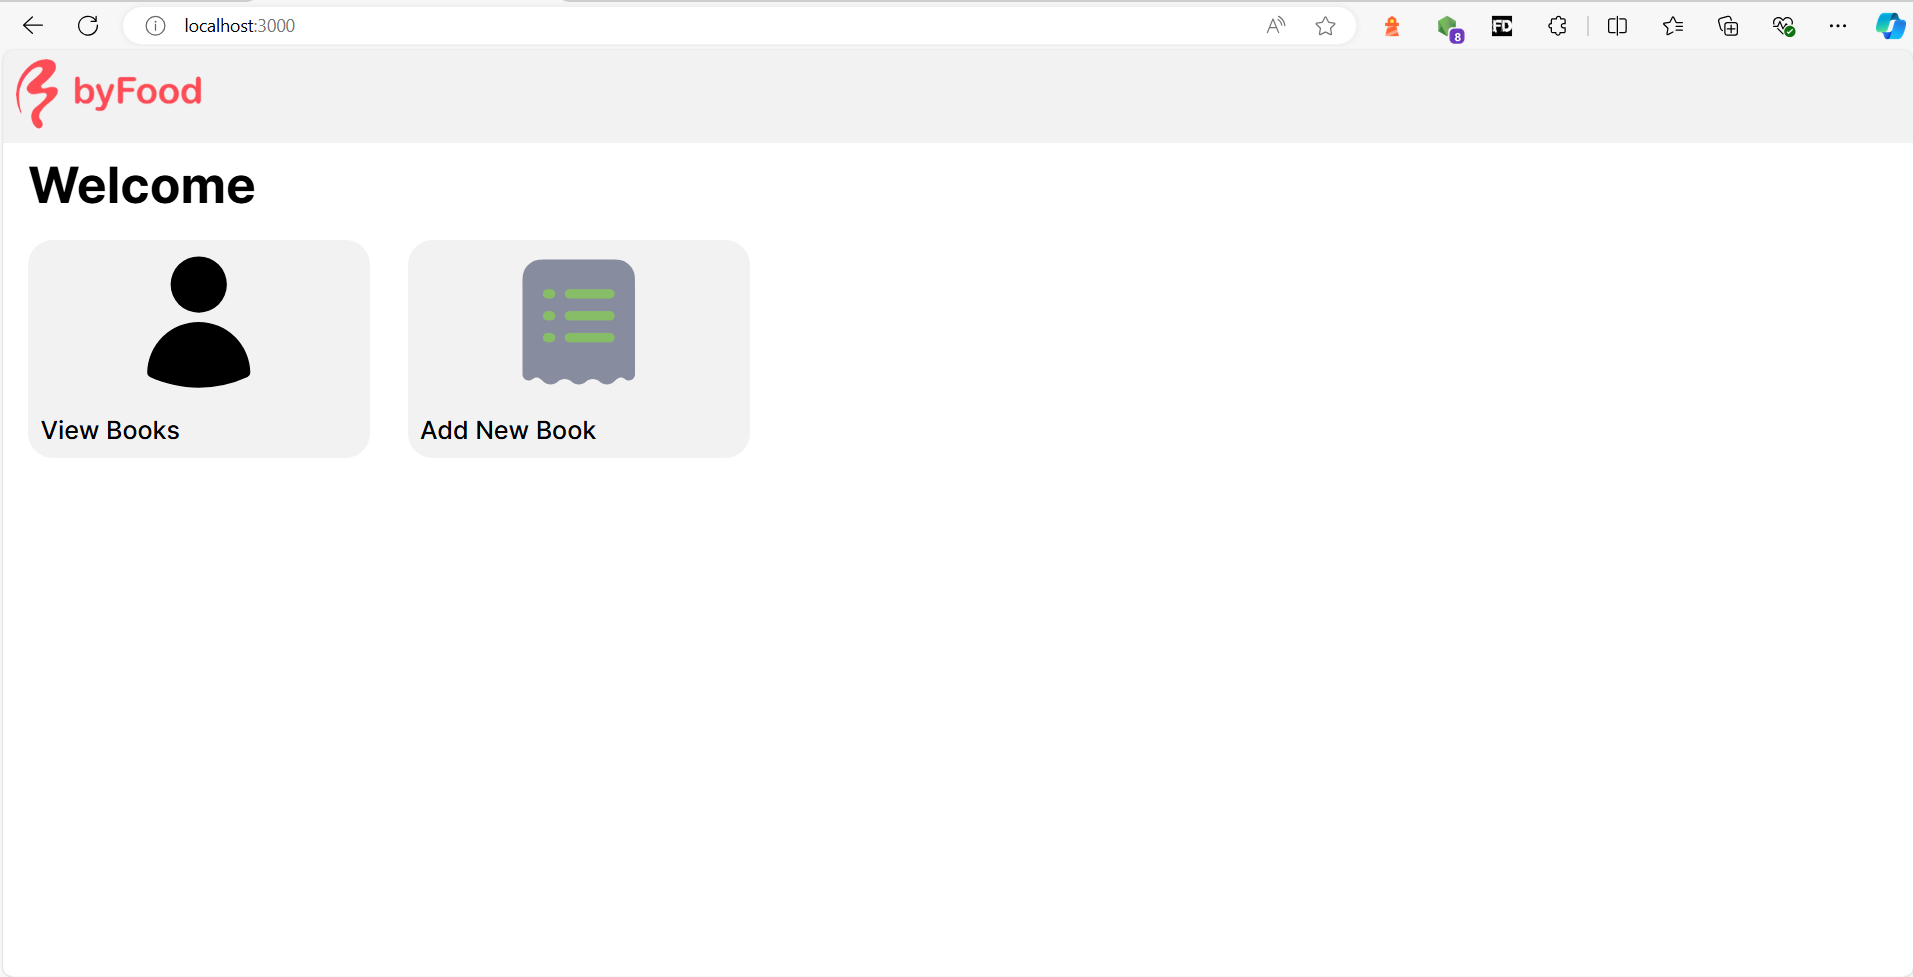
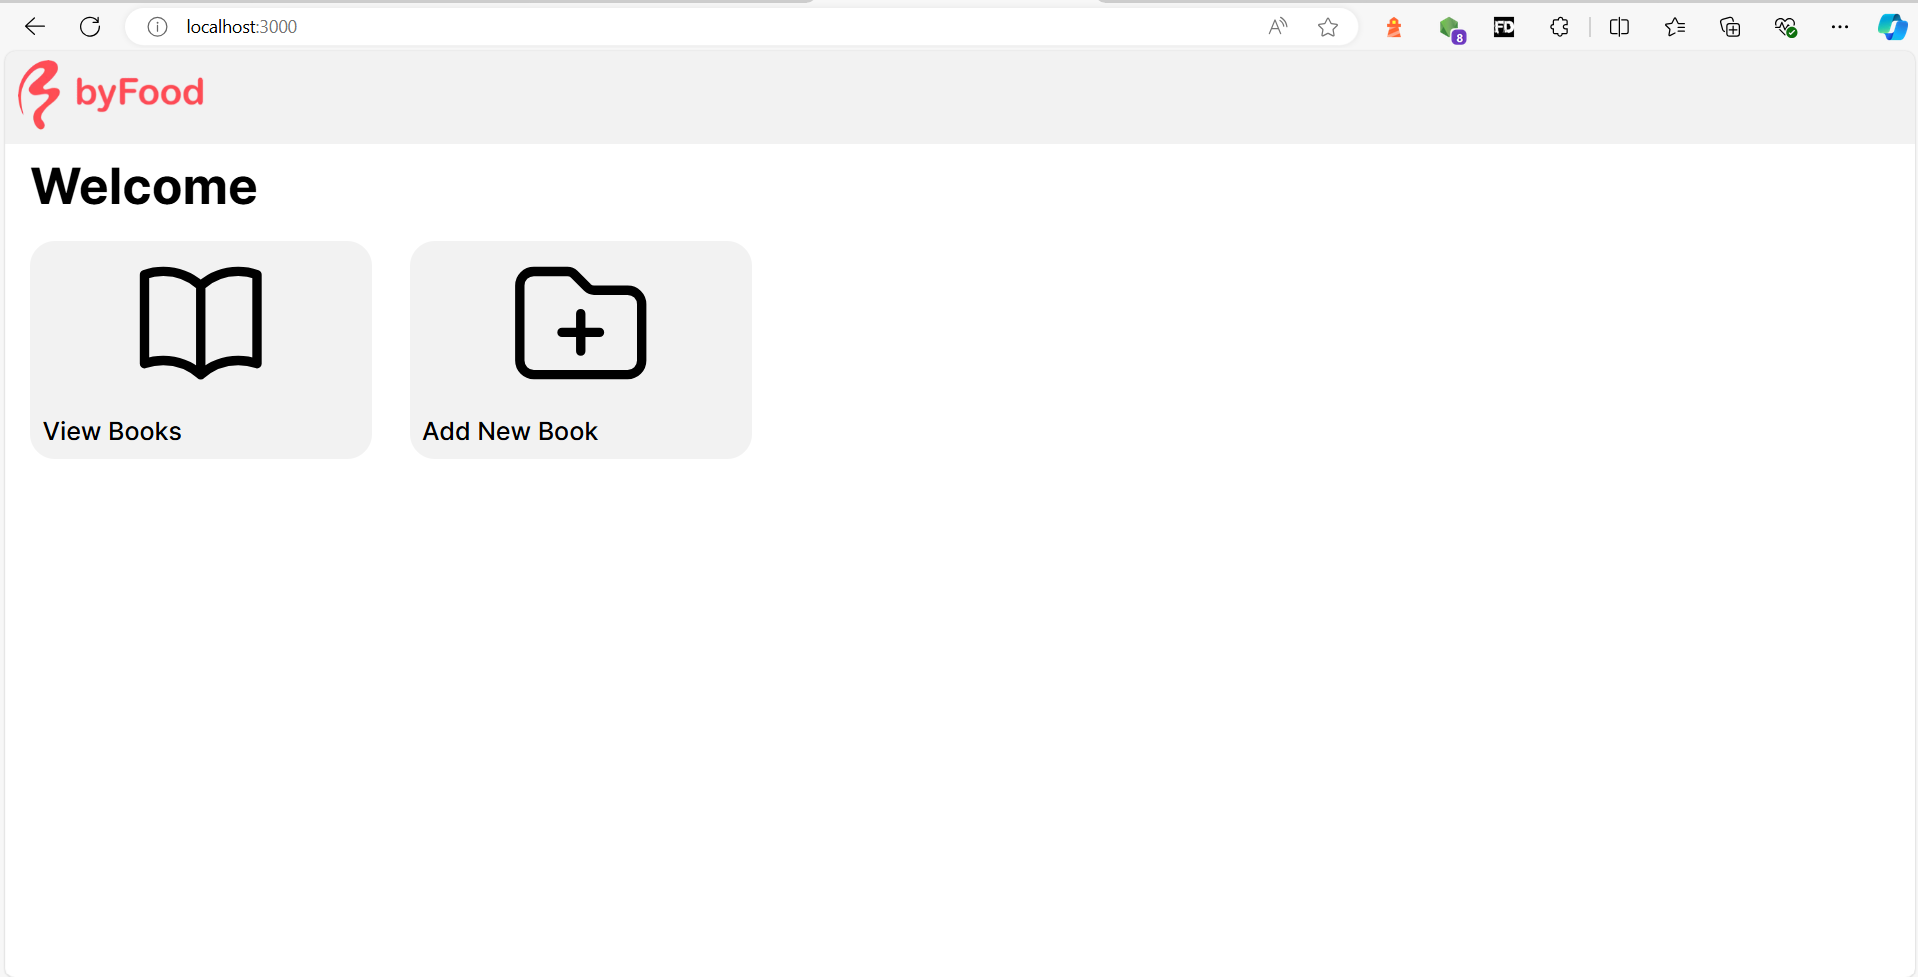
chore: Update HomeElements component with SVG attributes

diff --git a/client/src/components/home/HomeElements.jsx b/client/src/components/home/HomeElements.jsx
@@ -9,14 +9,16 @@ const HomeElements = () => {
       image: (
         <svg
           xmlns="http://www.w3.org/2000/svg"
+          fill="none"
           viewBox="0 0 24 24"
-          fill="currentColor"
-          className="w-6 h-6"
+          stroke-width="1.5"
+          stroke="currentColor"
+          class="size-6"
         >
           <path
-            fillRule="evenodd"
-            d="M7.5 6a4.5 4.5 0 1 1 9 0 4.5 4.5 0 0 1-9 0ZM3.751 20.105a8.25 8.25 0 0 1 16.498 0 .75.75 0 0 1-.437.695A18.683 18.683 0 0 1 12 22.5c-2.786 0-5.433-.608-7.812-1.7a.75.75 0 0 1-.437-.695Z"
-            clipRule="evenodd"
+            stroke-linecap="round"
+            stroke-linejoin="round"
+            d="M12 6.042A8.967 8.967 0 0 0 6 3.75c-1.052 0-2.062.18-3 .512v14.25A8.987 8.987 0 0 1 6 18c2.305 0 4.408.867 6 2.292m0-14.25a8.966 8.966 0 0 1 6-2.292c1.052 0 2.062.18 3 .512v14.25A8.987 8.987 0 0 0 18 18a8.967 8.967 0 0 0-6 2.292m0-14.25v14.25"
           />
         </svg>
       ),
@@ -25,35 +27,18 @@ const HomeElements = () => {
       _id: "books?add=true",
       name: "Add New Book",
       image: (
-        <svg width="800px" height="800px" viewBox="0 0 24 24" fill="none">
+        <svg
+          xmlns="http://www.w3.org/2000/svg"
+          fill="none"
+          viewBox="0 0 24 24"
+          stroke-width="1.5"
+          stroke="currentColor"
+          class="size-6"
+        >
           <path
-            opacity="0.5"
-            d="M7.24502 2H16.755C17.9139 2 18.4933 2 18.9606 2.16261C19.8468 2.47096 20.5425 3.18719 20.842 4.09946C21 4.58055 21 5.17705 21 6.37006V20.3742C21 21.2324 20.015 21.6878 19.3919 21.1176C19.0258 20.7826 18.4742 20.7826 18.1081 21.1176L17.625 21.5597C16.9834 22.1468 16.0166 22.1468 15.375 21.5597C14.7334 20.9726 13.7666 20.9726 13.125 21.5597C12.4834 22.1468 11.5166 22.1468 10.875 21.5597C10.2334 20.9726 9.26659 20.9726 8.625 21.5597C7.98341 22.1468 7.01659 22.1468 6.375 21.5597L5.8919 21.1176C5.52583 20.7826 4.97417 20.7826 4.6081 21.1176C3.985 21.6878 3 21.2324 3 20.3742V6.37006C3 5.17705 3 4.58055 3.15795 4.09946C3.45748 3.18719 4.15322 2.47096 5.03939 2.16261C5.50671 2 6.08614 2 7.24502 2Z"
-            fill="#1C274C"
-          />
-          <path
-            d="M7 6.75C6.58579 6.75 6.25 7.08579 6.25 7.5C6.25 7.91421 6.58579 8.25 7 8.25H7.5C7.91421 8.25 8.25 7.91421 8.25 7.5C8.25 7.08579 7.91421 6.75 7.5 6.75H7Z"
-            fill="#87bd66"
-          />
-          <path
-            d="M10.5 6.75C10.0858 6.75 9.75 7.08579 9.75 7.5C9.75 7.91421 10.0858 8.25 10.5 8.25H17C17.4142 8.25 17.75 7.91421 17.75 7.5C17.75 7.08579 17.4142 6.75 17 6.75H10.5Z"
-            fill="#87bd66"
-          />
-          <path
-            d="M7 10.25C6.58579 10.25 6.25 10.5858 6.25 11C6.25 11.4142 6.58579 11.75 7 11.75H7.5C7.91421 11.75 8.25 11.4142 8.25 11C8.25 10.5858 7.91421 10.25 7.5 10.25H7Z"
-            fill="#87bd66"
-          />
-          <path
-            d="M10.5 10.25C10.0858 10.25 9.75 10.5858 9.75 11C9.75 11.4142 10.0858 11.75 10.5 11.75H17C17.4142 11.75 17.75 11.4142 17.75 11C17.75 10.5858 17.4142 10.25 17 10.25H10.5Z"
-            fill="#87bd66"
-          />
-          <path
-            d="M7 13.75C6.58579 13.75 6.25 14.0858 6.25 14.5C6.25 14.9142 6.58579 15.25 7 15.25H7.5C7.91421 15.25 8.25 14.9142 8.25 14.5C8.25 14.0858 7.91421 13.75 7.5 13.75H7Z"
-            fill="#87bd66"
-          />
-          <path
-            d="M10.5 13.75C10.0858 13.75 9.75 14.0858 9.75 14.5C9.75 14.9142 10.0858 15.25 10.5 15.25H17C17.4142 15.25 17.75 14.9142 17.75 14.5C17.75 14.0858 17.4142 13.75 17 13.75H10.5Z"
-            fill="#87bd66"
+            stroke-linecap="round"
+            stroke-linejoin="round"
+            d="M12 10.5v6m3-3H9m4.06-7.19-2.12-2.12a1.5 1.5 0 0 0-1.061-.44H4.5A2.25 2.25 0 0 0 2.25 6v12a2.25 2.25 0 0 0 2.25 2.25h15A2.25 2.25 0 0 0 21.75 18V9a2.25 2.25 0 0 0-2.25-2.25h-5.379a1.5 1.5 0 0 1-1.06-.44Z"
           />
         </svg>
       ),
